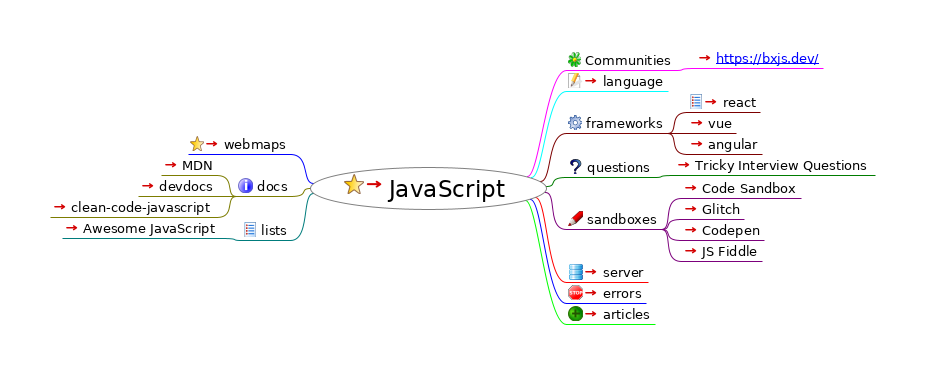
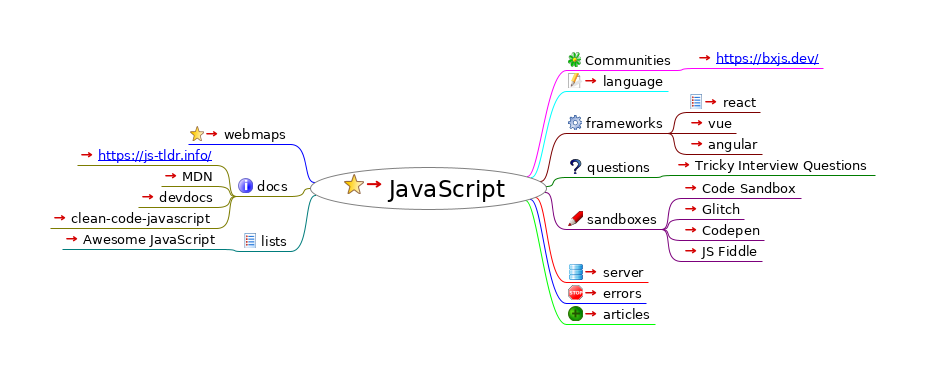
add js-tldr

Changed region(s): [[0.0605, 0.3529, 0.333, 0.6765]]

diff --git a/index.html b/index.html
@@ -24,13 +24,14 @@
                };
           
           --></script></head><body><h1>JavaScript</h1><div style="width:96%;  padding:2%;  margin-bottom:10px;  border: 0px;  text-align:center;  vertical-align:center;"><img src="index.html_files/image.png" style="margin-bottom:10px; &#9;border: 0px; &#9;text-align:center; &#9;vertical-align:center;" alt="Imagemap" usemap="#fm_imagemap" /></div><map name="fm_imagemap" id="fm_imagemap"><area shape="rect" href="../tech/index.html" alt="JavaScript" title="JavaScript" coords="310,167,547,210" />
-<area shape="rect" href="https://github.com/solidpayorg/webmaps/" alt="webmaps" title="webmaps" coords="188,136,291,154" />
+<area shape="rect" href="https://github.com/solidpayorg/webmaps/" alt="webmaps" title="webmaps" coords="188,126,291,144" />
 <area shape="rect" href="#FMID_1425964050FM" alt="docs" title="docs" coords="236,178,291,196" />
-<area shape="rect" href="https://developer.mozilla.org/en-US/docs/Web/JavaScript" alt="MDN" title="MDN" coords="161,157,217,175" />
-<area shape="rect" href="https://devdocs.io/javascript/" alt="devdocs" title="devdocs" coords="138,178,217,196" />
-<area shape="rect" href="https://github.com/ryanmcdermott/clean-code-javascript" alt="clean-code-javascript" title="clean-code-javascript" coords="50,199,217,217" />
-<area shape="rect" href="#FMID_829378880FM" alt="lists" title="lists" coords="241,222,291,240" />
-<area shape="rect" href="https://github.com/sorrycc/awesome-javascript" alt="Awesome JavaScript" title="Awesome JavaScript" coords="62,220,222,238" />
+<area shape="rect" href="https://js-tldr.info/" alt="https://js-tldr.info/ " title="https://js-tldr.info/ " coords="77,147,217,165" />
+<area shape="rect" href="https://developer.mozilla.org/en-US/docs/Web/JavaScript" alt="MDN" title="MDN" coords="161,168,217,186" />
+<area shape="rect" href="https://devdocs.io/javascript/" alt="devdocs" title="devdocs" coords="138,189,217,207" />
+<area shape="rect" href="https://github.com/ryanmcdermott/clean-code-javascript" alt="clean-code-javascript" title="clean-code-javascript" coords="50,210,217,228" />
+<area shape="rect" href="#FMID_829378880FM" alt="lists" title="lists" coords="241,233,291,251" />
+<area shape="rect" href="https://github.com/sorrycc/awesome-javascript" alt="Awesome JavaScript" title="Awesome JavaScript" coords="62,231,222,249" />
 <area shape="rect" href="#FMID_849215328FM" alt="Communities" title="Communities" coords="566,52,676,70" />
 <area shape="rect" href="https://bxjs.dev/" alt="https://bxjs.dev/" title="https://bxjs.dev/" coords="695,50,823,68" />
 <area shape="rect" href="language.html" alt="language" title="language" coords="566,73,668,91" />
@@ -50,7 +51,9 @@
 <area shape="rect" href="articles/index.html" alt="articles" title="articles" coords="566,306,655,324" />
 </map>
 
-<div class="node"><img src="index.html_files/hide.png" class="hideshow" alt="hide" onClick="toggle(&quot;N65543&quot;)" id="imgN65543" /><img src="index.html_files/icons/bookmark.svg" alt="bookmark" /> <a id="FMID_110073400FM" /><div class="nodecontent" style="color:#000000;font-size:150%;"><a href="../tech/index.html">JavaScript</a> <a href="../tech/index.html"><img src="index.html_files/ilink.png" alt="User Link" style="border-width:0" /></a></div><div class="content" id="N65543"><div class="node"><img src="index.html_files/leaf.png" class="hideshow" alt="leaf" /><img src="index.html_files/icons/bookmark.svg" alt="bookmark" /> <a id="FMID_634574866FM" /><div class="nodecontent" style="color:#000000;font-size:83%;"><a href="https://github.com/solidpayorg/webmaps/">webmaps</a> <a href="https://github.com/solidpayorg/webmaps/"><img src="index.html_files/ilink.png" alt="User Link" style="border-width:0" /></a></div></div><div class="node"><img src="index.html_files/hide.png" class="hideshow" alt="hide" onClick="toggle(&quot;N66488&quot;)" id="imgN66488" /><img src="index.html_files/icons/info.svg" alt="info" /> <a id="FMID_1425964050FM" /><div class="nodecontent" style="color:#000000;font-size:83%;">docs</div><div class="content" id="N66488"><div class="node"><img src="index.html_files/leaf.png" class="hideshow" alt="leaf" /><a id="FMID_773205118FM" /><div class="nodecontent" style="color:#000000;font-size:83%;"><a href="https://developer.mozilla.org/en-US/docs/Web/JavaScript">MDN</a> <a href="https://developer.mozilla.org/en-US/docs/Web/JavaScript"><img src="index.html_files/ilink.png" alt="User Link" style="border-width:0" /></a></div></div><div class="node"><img src="index.html_files/leaf.png" class="hideshow" alt="leaf" /><a id="FMID_83129282FM" /><div class="nodecontent" style="color:#000000;font-size:83%;"><a href="https://devdocs.io/javascript/">devdocs</a> <a href="https://devdocs.io/javascript/"><img src="index.html_files/ilink.png" alt="User Link" style="border-width:0" /></a></div></div><div class="node"><img src="index.html_files/leaf.png" class="hideshow" alt="leaf" /><a id="FMID_724832318FM" /><div class="nodecontent" style="color:#000000;font-size:83%;"><a href="https://github.com/ryanmcdermott/clean-code-javascript">clean-code-javascript</a> <a href="https://github.com/ryanmcdermott/clean-code-javascript"><img src="index.html_files/ilink.png" alt="User Link" style="border-width:0" /></a></div></div></div></div><div class="node"><img src="index.html_files/hide.png" class="hideshow" alt="hide" onClick="toggle(&quot;N66641&quot;)" id="imgN66641" /><img src="index.html_files/icons/list.svg" alt="list" /> <a id="FMID_829378880FM" /><div class="nodecontent" style="color:#000000;font-size:83%;">lists</div><div class="content" id="N66641"><div class="node"><img src="index.html_files/leaf.png" class="hideshow" alt="leaf" /><a id="FMID_157748484FM" /><div class="nodecontent" style="color:#000000;font-size:83%;"><a href="https://github.com/sorrycc/awesome-javascript">Awesome JavaScript</a> <a href="https://github.com/sorrycc/awesome-javascript"><img src="index.html_files/ilink.png" alt="User Link" style="border-width:0" /></a></div></div></div></div><div class="node"><img src="index.html_files/hide.png" class="hideshow" alt="hide" onClick="toggle(&quot;N66720&quot;)" id="imgN66720" /><img src="index.html_files/icons/licq.svg" alt="licq" /> <a id="FMID_849215328FM" /><div class="nodecontent" style="color:#000000;font-size:83%;">Communities</div><div class="content" id="N66720"><div class="node"><img src="index.html_files/leaf.png" class="hideshow" alt="leaf" /><a id="FMID_1384859362FM" /><div class="nodecontent" style="color:#000000;font-size:83%;"><a href="https://bxjs.dev/">
+<div class="node"><img src="index.html_files/hide.png" class="hideshow" alt="hide" onClick="toggle(&quot;N65543&quot;)" id="imgN65543" /><img src="index.html_files/icons/bookmark.svg" alt="bookmark" /> <a id="FMID_110073400FM" /><div class="nodecontent" style="color:#000000;font-size:150%;"><a href="../tech/index.html">JavaScript</a> <a href="../tech/index.html"><img src="index.html_files/ilink.png" alt="User Link" style="border-width:0" /></a></div><div class="content" id="N65543"><div class="node"><img src="index.html_files/leaf.png" class="hideshow" alt="leaf" /><img src="index.html_files/icons/bookmark.svg" alt="bookmark" /> <a id="FMID_634574866FM" /><div class="nodecontent" style="color:#000000;font-size:83%;"><a href="https://github.com/solidpayorg/webmaps/">webmaps</a> <a href="https://github.com/solidpayorg/webmaps/"><img src="index.html_files/ilink.png" alt="User Link" style="border-width:0" /></a></div></div><div class="node"><img src="index.html_files/hide.png" class="hideshow" alt="hide" onClick="toggle(&quot;N66488&quot;)" id="imgN66488" /><img src="index.html_files/icons/info.svg" alt="info" /> <a id="FMID_1425964050FM" /><div class="nodecontent" style="color:#000000;font-size:83%;">docs</div><div class="content" id="N66488"><div class="node"><img src="index.html_files/leaf.png" class="hideshow" alt="leaf" /><a id="FMID_1375223842FM" /><div class="nodecontent" style="color:#000000;font-size:83%;"><a href="https://js-tldr.info/">
+    <a http-equiv="content-type" content="text/html; charset=utf-8" href="https://js-tldr.info/">https://js-tldr.info/</a> 
+  </a> <a href="https://js-tldr.info/"><img src="index.html_files/ilink.png" alt="User Link" style="border-width:0" /></a></div></div><div class="node"><img src="index.html_files/leaf.png" class="hideshow" alt="leaf" /><a id="FMID_773205118FM" /><div class="nodecontent" style="color:#000000;font-size:83%;"><a href="https://developer.mozilla.org/en-US/docs/Web/JavaScript">MDN</a> <a href="https://developer.mozilla.org/en-US/docs/Web/JavaScript"><img src="index.html_files/ilink.png" alt="User Link" style="border-width:0" /></a></div></div><div class="node"><img src="index.html_files/leaf.png" class="hideshow" alt="leaf" /><a id="FMID_83129282FM" /><div class="nodecontent" style="color:#000000;font-size:83%;"><a href="https://devdocs.io/javascript/">devdocs</a> <a href="https://devdocs.io/javascript/"><img src="index.html_files/ilink.png" alt="User Link" style="border-width:0" /></a></div></div><div class="node"><img src="index.html_files/leaf.png" class="hideshow" alt="leaf" /><a id="FMID_724832318FM" /><div class="nodecontent" style="color:#000000;font-size:83%;"><a href="https://github.com/ryanmcdermott/clean-code-javascript">clean-code-javascript</a> <a href="https://github.com/ryanmcdermott/clean-code-javascript"><img src="index.html_files/ilink.png" alt="User Link" style="border-width:0" /></a></div></div></div></div><div class="node"><img src="index.html_files/hide.png" class="hideshow" alt="hide" onClick="toggle(&quot;N66696&quot;)" id="imgN66696" /><img src="index.html_files/icons/list.svg" alt="list" /> <a id="FMID_829378880FM" /><div class="nodecontent" style="color:#000000;font-size:83%;">lists</div><div class="content" id="N66696"><div class="node"><img src="index.html_files/leaf.png" class="hideshow" alt="leaf" /><a id="FMID_157748484FM" /><div class="nodecontent" style="color:#000000;font-size:83%;"><a href="https://github.com/sorrycc/awesome-javascript">Awesome JavaScript</a> <a href="https://github.com/sorrycc/awesome-javascript"><img src="index.html_files/ilink.png" alt="User Link" style="border-width:0" /></a></div></div></div></div><div class="node"><img src="index.html_files/hide.png" class="hideshow" alt="hide" onClick="toggle(&quot;N66775&quot;)" id="imgN66775" /><img src="index.html_files/icons/licq.svg" alt="licq" /> <a id="FMID_849215328FM" /><div class="nodecontent" style="color:#000000;font-size:83%;">Communities</div><div class="content" id="N66775"><div class="node"><img src="index.html_files/leaf.png" class="hideshow" alt="leaf" /><a id="FMID_1384859362FM" /><div class="nodecontent" style="color:#000000;font-size:83%;"><a href="https://bxjs.dev/">
     <a http-equiv="content-type" content="text/html; charset=utf-8" href="https://bxjs.dev/">https://bxjs.dev/</a>
-  </a> <a href="https://bxjs.dev/"><img src="index.html_files/ilink.png" alt="User Link" style="border-width:0" /></a></div></div></div></div><div class="node"><img src="index.html_files/leaf.png" class="hideshow" alt="leaf" /><img src="index.html_files/icons/edit.svg" alt="edit" /> <a id="FMID_1566689685FM" /><div class="nodecontent" style="color:#000000;font-size:83%;"><a href="language.html">language</a> <a href="language.html"><img src="index.html_files/ilink.png" alt="User Link" style="border-width:0" /></a></div></div><div class="node"><img src="index.html_files/hide.png" class="hideshow" alt="hide" onClick="toggle(&quot;N66860&quot;)" id="imgN66860" /><img src="index.html_files/icons/executable.svg" alt="executable" /> <a id="FMID_153818301FM" /><div class="nodecontent" style="color:#000000;font-size:83%;">frameworks</div><div class="content" id="N66860"><div class="node"><img src="index.html_files/leaf.png" class="hideshow" alt="leaf" /><img src="index.html_files/icons/list.svg" alt="list" /> <a id="FMID_921980201FM" /><div class="nodecontent" style="color:#000000;font-size:83%;"><a href="react/index.html">react</a> <a href="react/index.html"><img src="index.html_files/ilink.png" alt="User Link" style="border-width:0" /></a></div></div><div class="node"><img src="index.html_files/leaf.png" class="hideshow" alt="leaf" /><a id="FMID_850712897FM" /><div class="nodecontent" style="color:#000000;font-size:83%;"><a href="https://vuejs.org/">vue</a> <a href="https://vuejs.org/"><img src="index.html_files/ilink.png" alt="User Link" style="border-width:0" /></a></div></div><div class="node"><img src="index.html_files/leaf.png" class="hideshow" alt="leaf" /><a id="FMID_101804111FM" /><div class="nodecontent" style="color:#000000;font-size:83%;"><a href="https://angular.io/">angular</a> <a href="https://angular.io/"><img src="index.html_files/ilink.png" alt="User Link" style="border-width:0" /></a></div></div></div></div><div class="node"><img src="index.html_files/hide.png" class="hideshow" alt="hide" onClick="toggle(&quot;N67018&quot;)" id="imgN67018" /><img src="index.html_files/icons/help.svg" alt="help" /> <a id="FMID_1450636763FM" /><div class="nodecontent" style="color:#000000;font-size:83%;">questions</div><div class="content" id="N67018"><div class="node"><img src="index.html_files/leaf.png" class="hideshow" alt="leaf" /><a id="FMID_83102648FM" /><div class="nodecontent" style="color:#000000;font-size:83%;"><a href="https://dmitripavlutin.com/simple-but-tricky-javascript-interview-questions/">Tricky Interview Questions</a> <a href="https://dmitripavlutin.com/simple-but-tricky-javascript-interview-questions/"><img src="index.html_files/ilink.png" alt="User Link" style="border-width:0" /></a></div></div></div></div><div class="node"><img src="index.html_files/hide.png" class="hideshow" alt="hide" onClick="toggle(&quot;N67097&quot;)" id="imgN67097" /><img src="index.html_files/icons/pencil.svg" alt="pencil" /> <a id="FMID_1460537766FM" /><div class="nodecontent" style="color:#000000;font-size:83%;">sandboxes</div><div class="content" id="N67097"><div class="node"><img src="index.html_files/leaf.png" class="hideshow" alt="leaf" /><a id="FMID_899668548FM" /><div class="nodecontent" style="color:#000000;font-size:83%;"><a href="https://codesandbox.io/">Code Sandbox</a> <a href="https://codesandbox.io/"><img src="index.html_files/ilink.png" alt="User Link" style="border-width:0" /></a></div></div><div class="node"><img src="index.html_files/leaf.png" class="hideshow" alt="leaf" /><a id="FMID_1286093091FM" /><div class="nodecontent" style="color:#000000;font-size:83%;"><a href="https://glitch.com/">Glitch</a> <a href="https://glitch.com/"><img src="index.html_files/ilink.png" alt="User Link" style="border-width:0" /></a></div></div><div class="node"><img src="index.html_files/leaf.png" class="hideshow" alt="leaf" /><a id="FMID_942460316FM" /><div class="nodecontent" style="color:#000000;font-size:83%;"><a href="https://codepen.io/">Codepen</a> <a href="https://codepen.io/"><img src="index.html_files/ilink.png" alt="User Link" style="border-width:0" /></a></div></div><div class="node"><img src="index.html_files/leaf.png" class="hideshow" alt="leaf" /><a id="FMID_1150601009FM" /><div class="nodecontent" style="color:#000000;font-size:83%;"><a href="https://jsfiddle.net/">JS Fiddle</a> <a href="https://jsfiddle.net/"><img src="index.html_files/ilink.png" alt="User Link" style="border-width:0" /></a></div></div></div></div><div class="node"><img src="index.html_files/leaf.png" class="hideshow" alt="leaf" /><img src="index.html_files/icons/16x16-free-application-icons/png/16x16/Database.png" alt="16x16-free-application-icons/png/16x16/Database" /> <a id="FMID_1516168898FM" /><div class="nodecontent" style="color:#000000;font-size:83%;"><a href="server/index.html">server</a> <a href="server/index.html"><img src="index.html_files/ilink.png" alt="User Link" style="border-width:0" /></a></div></div><div class="node"><img src="index.html_files/leaf.png" class="hideshow" alt="leaf" /><img src="index.html_files/icons/stop-sign.svg" alt="stop-sign" /> <a id="FMID_437549538FM" /><div class="nodecontent" style="color:#000000;font-size:83%;"><a href="https://blog.appsignal.com/2019/10/17/javascript-errors-an-exceptional-history.html">errors</a> <a href="https://blog.appsignal.com/2019/10/17/javascript-errors-an-exceptional-history.html"><img src="index.html_files/ilink.png" alt="User Link" style="border-width:0" /></a></div></div><div class="node"><img src="index.html_files/leaf.png" class="hideshow" alt="leaf" /><img src="index.html_files/icons/very_positive.svg" alt="very_positive" /> <a id="FMID_51150335FM" /><div class="nodecontent" style="color:#000000;font-size:83%;"><a href="articles/index.html">articles</a> <a href="articles/index.html"><img src="index.html_files/ilink.png" alt="User Link" style="border-width:0" /></a></div></div></div></div>
+  </a> <a href="https://bxjs.dev/"><img src="index.html_files/ilink.png" alt="User Link" style="border-width:0" /></a></div></div></div></div><div class="node"><img src="index.html_files/leaf.png" class="hideshow" alt="leaf" /><img src="index.html_files/icons/edit.svg" alt="edit" /> <a id="FMID_1566689685FM" /><div class="nodecontent" style="color:#000000;font-size:83%;"><a href="language.html">language</a> <a href="language.html"><img src="index.html_files/ilink.png" alt="User Link" style="border-width:0" /></a></div></div><div class="node"><img src="index.html_files/hide.png" class="hideshow" alt="hide" onClick="toggle(&quot;N66915&quot;)" id="imgN66915" /><img src="index.html_files/icons/executable.svg" alt="executable" /> <a id="FMID_153818301FM" /><div class="nodecontent" style="color:#000000;font-size:83%;">frameworks</div><div class="content" id="N66915"><div class="node"><img src="index.html_files/leaf.png" class="hideshow" alt="leaf" /><img src="index.html_files/icons/list.svg" alt="list" /> <a id="FMID_921980201FM" /><div class="nodecontent" style="color:#000000;font-size:83%;"><a href="react/index.html">react</a> <a href="react/index.html"><img src="index.html_files/ilink.png" alt="User Link" style="border-width:0" /></a></div></div><div class="node"><img src="index.html_files/leaf.png" class="hideshow" alt="leaf" /><a id="FMID_850712897FM" /><div class="nodecontent" style="color:#000000;font-size:83%;"><a href="https://vuejs.org/">vue</a> <a href="https://vuejs.org/"><img src="index.html_files/ilink.png" alt="User Link" style="border-width:0" /></a></div></div><div class="node"><img src="index.html_files/leaf.png" class="hideshow" alt="leaf" /><a id="FMID_101804111FM" /><div class="nodecontent" style="color:#000000;font-size:83%;"><a href="https://angular.io/">angular</a> <a href="https://angular.io/"><img src="index.html_files/ilink.png" alt="User Link" style="border-width:0" /></a></div></div></div></div><div class="node"><img src="index.html_files/hide.png" class="hideshow" alt="hide" onClick="toggle(&quot;N67073&quot;)" id="imgN67073" /><img src="index.html_files/icons/help.svg" alt="help" /> <a id="FMID_1450636763FM" /><div class="nodecontent" style="color:#000000;font-size:83%;">questions</div><div class="content" id="N67073"><div class="node"><img src="index.html_files/leaf.png" class="hideshow" alt="leaf" /><a id="FMID_83102648FM" /><div class="nodecontent" style="color:#000000;font-size:83%;"><a href="https://dmitripavlutin.com/simple-but-tricky-javascript-interview-questions/">Tricky Interview Questions</a> <a href="https://dmitripavlutin.com/simple-but-tricky-javascript-interview-questions/"><img src="index.html_files/ilink.png" alt="User Link" style="border-width:0" /></a></div></div></div></div><div class="node"><img src="index.html_files/hide.png" class="hideshow" alt="hide" onClick="toggle(&quot;N67152&quot;)" id="imgN67152" /><img src="index.html_files/icons/pencil.svg" alt="pencil" /> <a id="FMID_1460537766FM" /><div class="nodecontent" style="color:#000000;font-size:83%;">sandboxes</div><div class="content" id="N67152"><div class="node"><img src="index.html_files/leaf.png" class="hideshow" alt="leaf" /><a id="FMID_899668548FM" /><div class="nodecontent" style="color:#000000;font-size:83%;"><a href="https://codesandbox.io/">Code Sandbox</a> <a href="https://codesandbox.io/"><img src="index.html_files/ilink.png" alt="User Link" style="border-width:0" /></a></div></div><div class="node"><img src="index.html_files/leaf.png" class="hideshow" alt="leaf" /><a id="FMID_1286093091FM" /><div class="nodecontent" style="color:#000000;font-size:83%;"><a href="https://glitch.com/">Glitch</a> <a href="https://glitch.com/"><img src="index.html_files/ilink.png" alt="User Link" style="border-width:0" /></a></div></div><div class="node"><img src="index.html_files/leaf.png" class="hideshow" alt="leaf" /><a id="FMID_942460316FM" /><div class="nodecontent" style="color:#000000;font-size:83%;"><a href="https://codepen.io/">Codepen</a> <a href="https://codepen.io/"><img src="index.html_files/ilink.png" alt="User Link" style="border-width:0" /></a></div></div><div class="node"><img src="index.html_files/leaf.png" class="hideshow" alt="leaf" /><a id="FMID_1150601009FM" /><div class="nodecontent" style="color:#000000;font-size:83%;"><a href="https://jsfiddle.net/">JS Fiddle</a> <a href="https://jsfiddle.net/"><img src="index.html_files/ilink.png" alt="User Link" style="border-width:0" /></a></div></div></div></div><div class="node"><img src="index.html_files/leaf.png" class="hideshow" alt="leaf" /><img src="index.html_files/icons/16x16-free-application-icons/png/16x16/Database.png" alt="16x16-free-application-icons/png/16x16/Database" /> <a id="FMID_1516168898FM" /><div class="nodecontent" style="color:#000000;font-size:83%;"><a href="server/index.html">server</a> <a href="server/index.html"><img src="index.html_files/ilink.png" alt="User Link" style="border-width:0" /></a></div></div><div class="node"><img src="index.html_files/leaf.png" class="hideshow" alt="leaf" /><img src="index.html_files/icons/stop-sign.svg" alt="stop-sign" /> <a id="FMID_437549538FM" /><div class="nodecontent" style="color:#000000;font-size:83%;"><a href="https://blog.appsignal.com/2019/10/17/javascript-errors-an-exceptional-history.html">errors</a> <a href="https://blog.appsignal.com/2019/10/17/javascript-errors-an-exceptional-history.html"><img src="index.html_files/ilink.png" alt="User Link" style="border-width:0" /></a></div></div><div class="node"><img src="index.html_files/leaf.png" class="hideshow" alt="leaf" /><img src="index.html_files/icons/very_positive.svg" alt="very_positive" /> <a id="FMID_51150335FM" /><div class="nodecontent" style="color:#000000;font-size:83%;"><a href="articles/index.html">articles</a> <a href="articles/index.html"><img src="index.html_files/ilink.png" alt="User Link" style="border-width:0" /></a></div></div></div></div>
 </body></html>

diff --git a/index.mm b/index.mm
@@ -72,6 +72,19 @@
 <node TEXT="docs" POSITION="left" ID="ID_1425964050" CREATED="1572497990298" MODIFIED="1572498279093">
 <icon BUILTIN="info"/>
 <edge COLOR="#7c7c00"/>
+<node ID="ID_1375223842" CREATED="1574850018186" MODIFIED="1574850018186" LINK="https://js-tldr.info/"><richcontent TYPE="NODE">
+
+<html>
+  <head>
+    
+  </head>
+  <body>
+    <a http-equiv="content-type" content="text/html; charset=utf-8" href="https://js-tldr.info/">https://js-tldr.info/</a> 
+  </body>
+</html>
+
+</richcontent>
+</node>
 <node TEXT="MDN" ID="ID_773205118" CREATED="1572497994071" MODIFIED="1572498002669" LINK="https://developer.mozilla.org/en-US/docs/Web/JavaScript"/>
 <node TEXT="devdocs" ID="ID_83129282" CREATED="1572498043641" MODIFIED="1572498048395" LINK="https://devdocs.io/javascript/"/>
 <node TEXT="clean-code-javascript" ID="ID_724832318" CREATED="1574723390415" MODIFIED="1574723399826" LINK="https://github.com/ryanmcdermott/clean-code-javascript"/>
